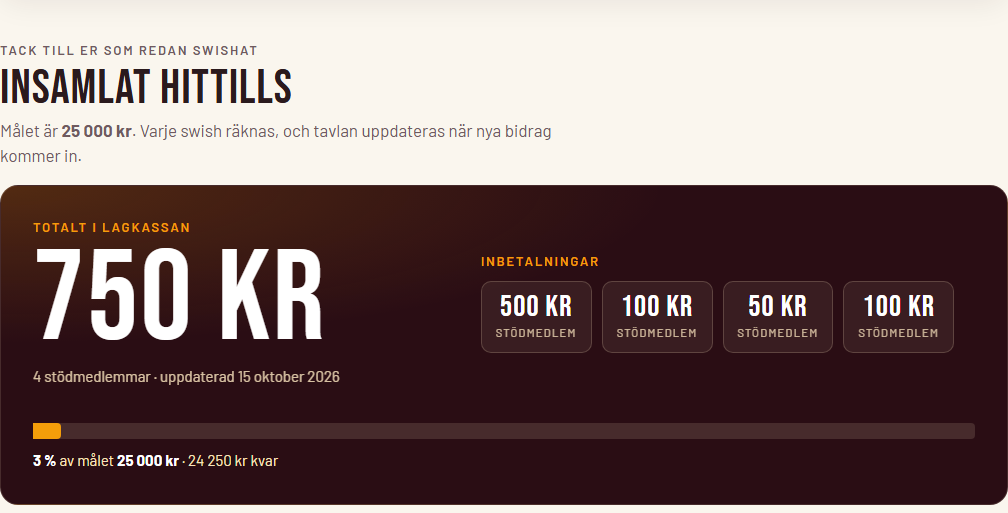
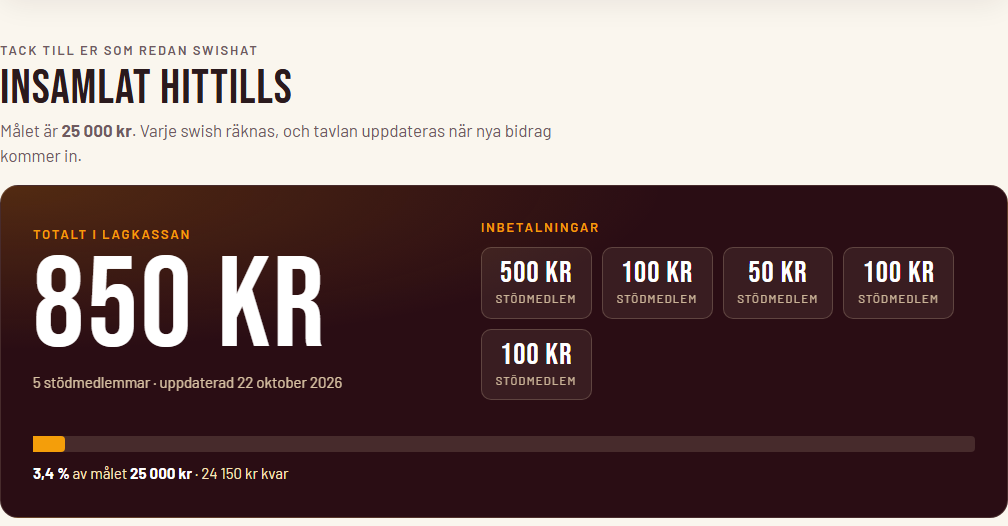
chore(tavla): ny inbetalning 100 kr, totalt 850 kr (22 okt)

diff --git a/index.html b/index.html
@@ -337,16 +337,16 @@
     <div class="board" id="board">
       <div class="board-total">
         <span class="board-label">Totalt i lagkassan</span>
-        <span class="board-sum"><span id="totalSum">750</span> kr</span>
-        <span class="board-sub"><span id="totalCount">4 stödmedlemmar</span> · uppdaterad <span id="totalDate">15 oktober 2026</span></span>
+        <span class="board-sum"><span id="totalSum">850</span> kr</span>
+        <span class="board-sub"><span id="totalCount">5 stödmedlemmar</span> · uppdaterad <span id="totalDate">22 oktober 2026</span></span>
       </div>
       <div class="board-list">
         <span class="board-label">Inbetalningar</span>
         <ol class="board-rows" id="boardRows" aria-label="Inbetalningar som kommit in"></ol>
       </div>
       <div class="board-goal">
-        <div class="meter" id="meter" role="progressbar" aria-label="Insamlat av målet" aria-valuemin="0" aria-valuemax="25000" aria-valuenow="750"><div class="meter-fill" id="meterFill" style="--w:3%"></div></div>
-        <div class="board-goal-text"><strong id="goalPct">3 %</strong> av målet <strong id="goalSum">25 000 kr</strong> · <span id="goalLeft">24 250 kr kvar</span></div>
+        <div class="meter" id="meter" role="progressbar" aria-label="Insamlat av målet" aria-valuemin="0" aria-valuemax="25000" aria-valuenow="850"><div class="meter-fill" id="meterFill" style="--w:3.4%"></div></div>
+        <div class="board-goal-text"><strong id="goalPct">3,4 %</strong> av målet <strong id="goalSum">25 000 kr</strong> · <span id="goalLeft">24 150 kr kvar</span></div>
       </div>
     </div>
   </section>
@@ -522,9 +522,9 @@
   $('copyUrl').addEventListener('click', (e) => copyText(e.currentTarget, location.href.split('#')[0], 'Länken är kopierad'));
 
   // --- resultattavlan: inbetalningar som kommit in. Uppdatera listan och datumet för hand.
-  const INBETALNINGAR = [500, 100, 50, 100];
+  const INBETALNINGAR = [500, 100, 50, 100, 100];
   const MAL = 25000;
-  const UPPDATERAD = '15 oktober 2026';
+  const UPPDATERAD = '22 oktober 2026';
   const sv = (n, d) => n.toLocaleString('sv-SE', { maximumFractionDigits: d || 0 });
   const total = INBETALNINGAR.reduce((a, b) => a + b, 0);
   INBETALNINGAR.forEach((kr) => {
